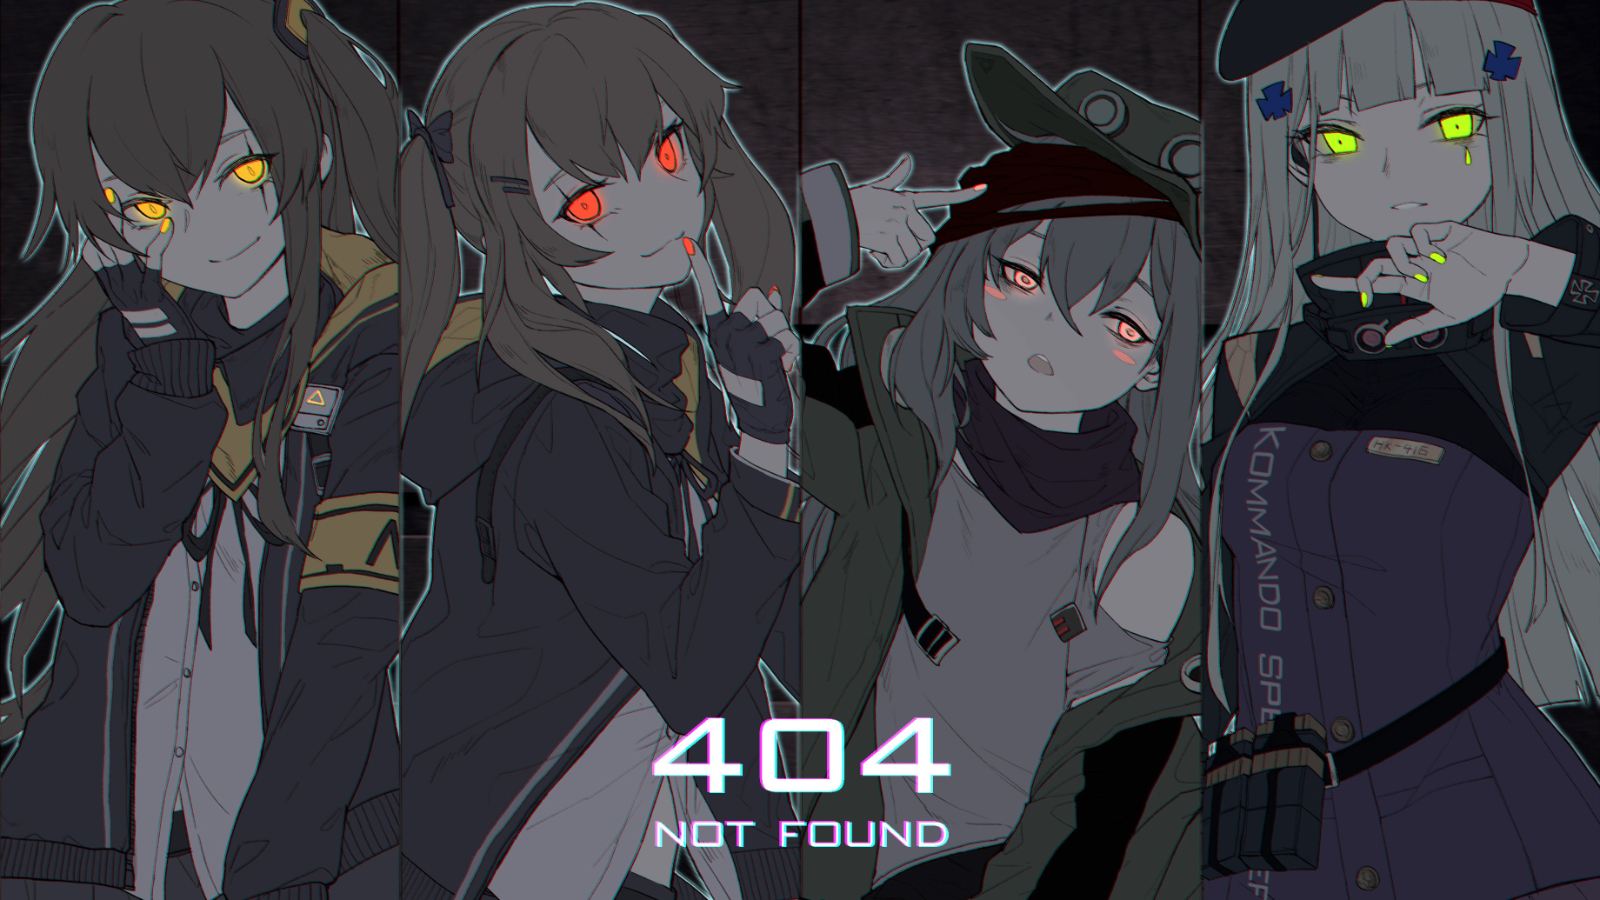
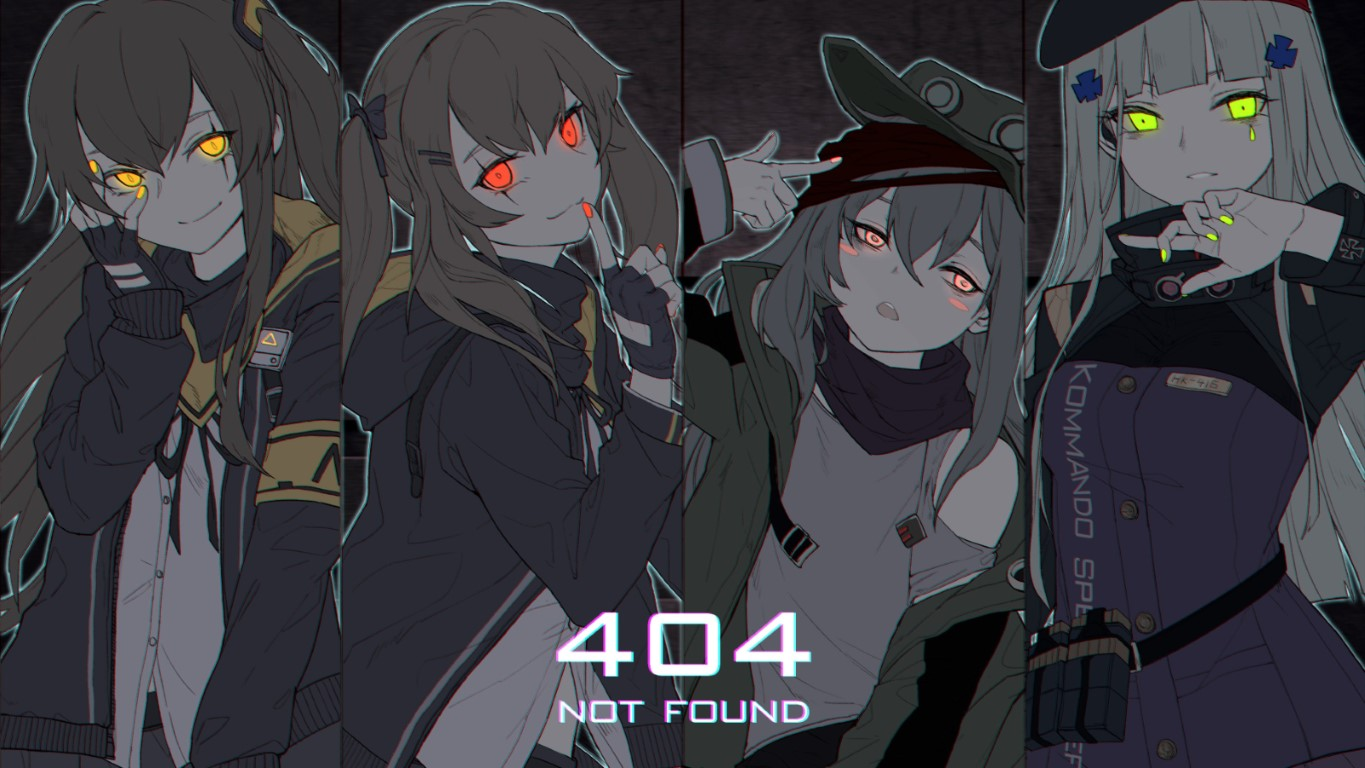
updated spy x family default images

diff --git a/javascript/index.js b/javascript/index.js
@@ -125,14 +125,9 @@ function Replace(data) {
       ? `linear-gradient(rgba(0, 0, 0, 0.7), rgba(0, 0, 0, 0.7)),url(${main_data.bannerImage})`
       : window.screen.width <= 425
       ? `linear-gradient(rgba(0, 0, 0, 0.7), rgba(0, 0, 0, 0.7)),url(./images/Spy-mobile.jpeg)`
-      : `linear-gradient(rgba(0, 0, 0, 0.7), rgba(0, 0, 0, 0.7)),url(./images/spy-x-family-main.png)`;
+      : `linear-gradient(rgba(0, 0, 0, 0.7), rgba(0, 0, 0, 0.7)),url(./images/spy-x-family-main.jpg)`;
 
-  body.style.backgroundSize =
-    main_data.id !== 140960?
-      "cover"
-      : window.screen.width <= 425
-      ? "100% 100%"
-      : "cover";
+  body.style.backgroundSize = "cover";
   body.style.backgroundPosition = "center";
   mobile_nav.style.backgroundColor = shadeColor(
     main_data.coverImage.color,
